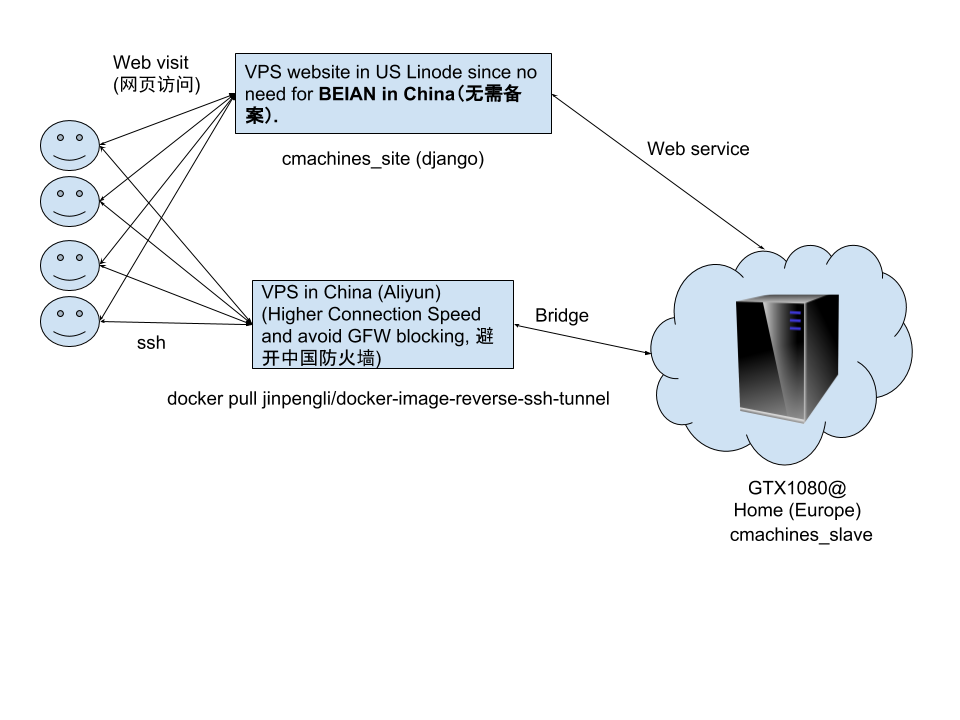
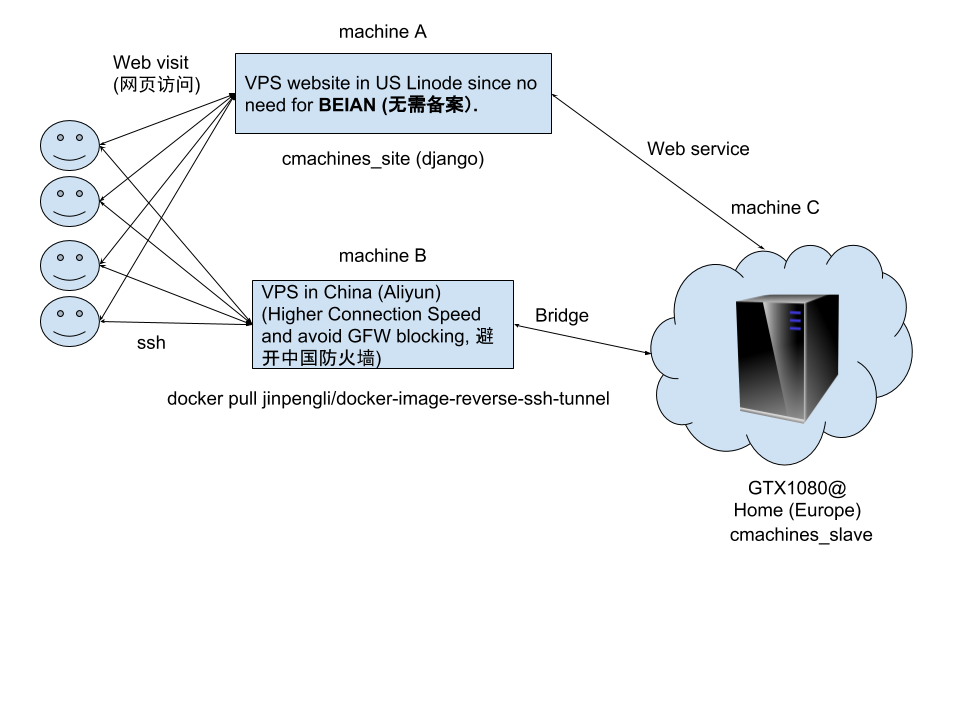
update doc

diff --git a/README.md b/README.md
@@ -2,7 +2,7 @@
 Introduction
 ============
 
-This is a complex system for sharing gpu at home, see the on-line demo (http://cmachines.chongdata.com). 
+This is a complex system for sharing gpu at home based on the docker containers. Each user works in the an independent container. See the on-line demo (http://cmachines.chongdata.com). 
 
 This tutorial is NOT written for the beginners. I assume that you already knew the below techniques very well:
 
@@ -14,6 +14,14 @@ This tutorial is NOT written for the beginners. I assume that you already knew t
 Architecture
 ============
 
-Before installing the gpu solution
-
+Before installing the gpu solution, you can have a look at the architecture as shown as below. Basically you need three machines
+  * Machine A: vps for the website (`cmachines_site` in this project). Users will use this website to create machines or to modify machines. This website is written by django. Please goto [djangoproject](https://www.djangoproject.com/) to understand how to install the website.
+  * Machine B: vps in China for the ssh connection. This machine is used for the ssh connection. The installation is very simple. You only need to install docker on this machine, and pull an image on this machine (`docker pull jinpengli/docker-image-reverse-ssh-tunnel`)
+  * Machine C: This machine is usually located at your home. It canbe behind the NAT. The installation is very complex, and the source is located in `cmachines_slave` in this project. You can read the README.md for the installation.
 ![Architecture](misc/architecture.png)
+
+Questions
+==========
+
+If you have question, please open a ticket. If I have time, I will answer it otherwise I will leave it open. Thanks in advance.
+
